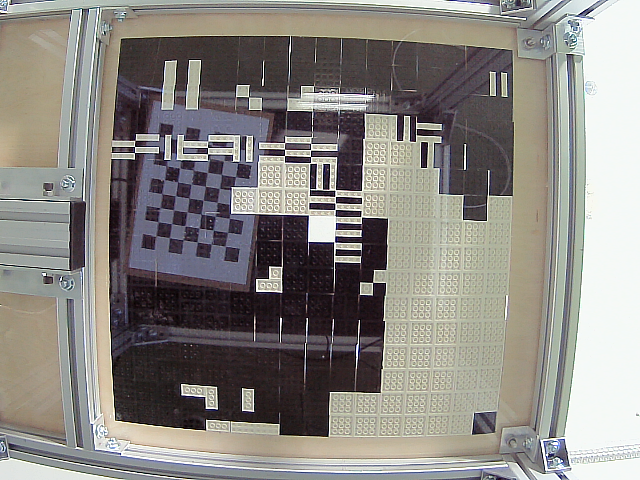
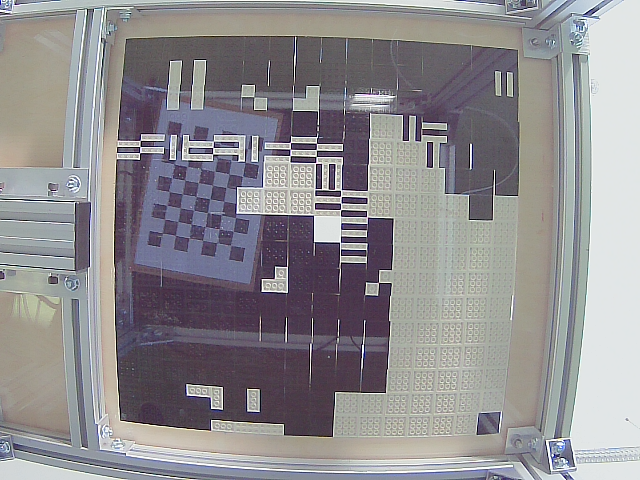
Fixed the calibration

diff --git a/image_calibration/Calibration_test_script.py b/image_calibration/Calibration_test_script.py
@@ -1,43 +1,46 @@
 import numpy as np
 import cv2 as cv
 import glob
-# termination criteria
-criteria = (cv.TERM_CRITERIA_EPS + cv.TERM_CRITERIA_MAX_ITER, 30, 0.001)
+# # termination criteria
+# criteria = (cv.TERM_CRITERIA_EPS + cv.TERM_CRITERIA_MAX_ITER, 30, 0.001)
 
-# prepare object points, like (0,0,0), (1,0,0), (2,0,0) ....,(6,5,0)
-objp = np.zeros((6*8,3), np.float32)
-objp[:,:2] = np.mgrid[0:6,0:8].T.reshape(-1,2)
+# # prepare object points, like (0,0,0), (1,0,0), (2,0,0) ....,(6,5,0)
+# objp = np.zeros((6*8,3), np.float32)
+# objp[:,:2] = np.mgrid[0:6,0:8].T.reshape(-1,2)
 
-# Arrays to store object points and image points from all the images.
-objpoints = [] # 3d point in real world space
-imgpoints = [] # 2d points in image plane.
+# # Arrays to store object points and image points from all the images.
+# objpoints = [] # 3d point in real world space
+# imgpoints = [] # 2d points in image plane.
 
-images = glob.glob('*.png')
+# images = glob.glob('*.png')
 
-for fname in images:
-    img = cv.imread(fname)
-    gray = cv.cvtColor(img, cv.COLOR_BGR2GRAY)
-    # Find the chess board corners
-    ret, corners = cv.findChessboardCornersSB(gray, (6,8), None)
-    # If found, add object points, image points (after refining them)
-    if ret == True:
-        objpoints.append(objp)
-        corners2 = cv.cornerSubPix(gray,corners, (11,11), (-1,-1), criteria)
-        imgpoints.append(corners2)
-        # Draw and display the corners
-        cv.drawChessboardCorners(img, (6,8), corners2, ret)
-        #cv.namedWindow('img', cv.WINDOW_NORMAL)
-        cv.imshow('img', img)
+# for fname in images:
+#     img = cv.imread(fname)
+#     gray = cv.cvtColor(img, cv.COLOR_BGR2GRAY)
+#     # Find the chess board corners
+#     ret, corners = cv.findChessboardCornersSB(gray, (6,8), None)
+#     # If found, add object points, image points (after refining them)
+#     if ret == True:
+#         objpoints.append(objp)
+#         corners2 = cv.cornerSubPix(gray,corners, (11,11), (-1,-1), criteria)
+#         imgpoints.append(corners2)
+#         # Draw and display the corners
+#         cv.drawChessboardCorners(img, (6,8), corners2, ret)
+#         #cv.namedWindow('img', cv.WINDOW_NORMAL)
+#         cv.imshow('img', img)
         
-        cv.waitKey(500)
-    else:
-        print(fname)
+#         cv.waitKey(500)
+#     else:
+#         print(fname)
         
-cv.destroyAllWindows()
+# cv.destroyAllWindows()
 
-ret, mtx, dist, rvecs, tvecs = cv.calibrateCamera(objpoints, imgpoints, gray.shape[::-1], None, None)
+# ret, mtx, dist, rvecs, tvecs = cv.calibrateCamera(objpoints, imgpoints, gray.shape[::-1], None, None)
 
-print("ret:\n", ret, "\n mtx:\n", mtx, "\n dist:\n",dist,"\n rvecs:\n", rvecs, "\n tvecs:\n",tvecs)
+# print("ret:\n", ret, "\n mtx:\n", mtx, "\n dist:\n",dist,"\n rvecs:\n", rvecs, "\n tvecs:\n",tvecs)
+
+mtx =  np.array([[613.88367983, 0, 319.21787006],[0, 614.31059499, 202.28879716],[0, 0, 1]])
+dist =  np.array([[-0.37703544,  0.31425025, -0.00366991, -0.00103216, -0.28197977]])
 
 # cap = cv.VideoCapture(1)  # 0 for the first webcam, 1 for the second one, etc.
 # ret, img = cap.read()  # read a new frame from video
@@ -48,54 +51,55 @@ print("ret:\n", ret, "\n mtx:\n", mtx, "\n dist:\n",dist,"\n rvecs:\n", rvecs, "
 # h,  w = img.shape[:2]
 # newcameramtx, roi = cv.getOptimalNewCameraMatrix(mtx, dist, (w,h), 1, (w,h))
 
-# import time
+import time
 
-# while True:
-#     cap = cv.VideoCapture(1)  # 0 for the first webcam, 1 for the second one, etc.
-#     ret, img = cap.read()  # read a new frame from video
-#     cap.release()  # after capturing the image, release the camera
+import cv2 as cv
+import numpy as np
 
-#     if ret:  # if frame read successfully
-#         cv.imwrite('output.png', img)  # save the image as a PNG file
-#     else:
-#         print("Unable to capture image")
-#     img = cv.imread('output.png')
-#     h,  w = img.shape[:2]
-#     newcameramtx, roi = cv.getOptimalNewCameraMatrix(mtx, dist, (w,h), 1, (w,h))
-#     # undistort
-#     dst = cv.undistort(img, mtx, dist, None, newcameramtx)
-#     # crop the image
-#     x, y, w, h = roi
-#     dst = dst[y:y+h, x:x+w]
-#     cv.imshow('calibresult', dst)
+# Assuming mtx and dist are defined somewhere else in the code
+# mtx is the camera matrix
+# dist is the distortion coefficients
 
-#     # undistort
-#     mapx, mapy = cv.initUndistortRectifyMap(mtx, dist, None, newcameramtx, (w,h), 5)
-#     dst = cv.remap(img, mapx, mapy, cv.INTER_LINEAR)
-#     # crop the image
-#     x, y, w, h = roi
-#     dst = dst[y:y+h, x:x+w]
-#     cv.imshow('calibresult', dst)
+cap = cv.VideoCapture(1)  # 0 for the first webcam, 1 for the second one, etc.
 
-#     if cv.waitKey(1) & 0xFF == ord('q'):  # press 'q' to quit
-#         break
+while True:
+    ret, img = cap.read()  # read a new frame from video
 
-#     time.sleep(1)  # wait for 1 second
+    if not ret:  # if frame read successfully
+        print("Unable to capture image")
+        break
 
-# cv.destroyAllWindows()
+    h,  w = img.shape[:2]
+    newcameramtx, roi = cv.getOptimalNewCameraMatrix(mtx, dist, (w,h), 1, (w,h))
+    print(newcameramtx)
+
+    # undistort
+    dst = cv.undistort(img, mtx, dist, None, newcameramtx)
+
+    # crop the image
+    x, y, w, h = roi
+    dst = dst[y:y+h, x:x+w]
+
+    cv.imshow('calibresult', dst)
+
+    if cv.waitKey(1) & 0xFF == ord('q'):  # press 'q' to quit
+        break
+
+cap.release()
+cv.destroyAllWindows()
 
 
-img = cv.imread('output.png')
-h,  w = img.shape[:2]
-print(w,h)
-newcameramtx, roi = cv.getOptimalNewCameraMatrix(mtx, dist, (w,h), 1, (w,h))
+# img = cv.imread('output.png')
+# h,  w = img.shape[:2]
+# print(w,h)
+# newcameramtx, roi = cv.getOptimalNewCameraMatrix(mtx, dist, (w,h), 1, (w,h))
 
-# undistort
-dst = cv.undistort(img, mtx, dist, None, newcameramtx)
-# crop the image
-x, y, w, h = roi
-dst = dst[y:y+h, x:x+w]
-cv.imwrite('calibresult2.png', dst)
+# # undistort
+# dst = cv.undistort(img, mtx, dist, None, newcameramtx)
+# # crop the image
+# x, y, w, h = roi
+# dst = dst[y:y+h, x:x+w]
+# cv.imwrite('calibresult2.png', dst)
 
 
 

diff --git a/CS_CityScoPy-3.2/cityscopy.py b/CS_CityScoPy-3.2/cityscopy.py
@@ -217,20 +217,17 @@ class Cityscopy:
             # else if camera capture is ok
             else:
                 h, w, *_ = this_frame.shape
-                res_matrix = np.array([[w, 0, 0], [0, h, 0], [0, 0, 1]])
-                matrix = [[613.88292291, 0, 319.217804],
-                          [0, 614.30988818, 202.28886733],
-                          [0, 0, 1]]
-                distortion = [[-0.37703198,  0.31423615, -0.00367001, -0.00103222, -0.28196277]]
-                # matrix = [[ 0.6834898667393322, 0.0, 0.4965583739104512 ], [ 0.0, 1.216452331944533, 0.5026849121434522 ], [ 0.0, 0.0, 1.0 ] ]
-                # distortion = [ -0.3714812399536999, 0.21247979505344064, -0.00020619953391510647, -0.0009202007819819389, -0.08640239614978638 ]
-                # distortion = [ -0.5714812399536999, 0.31247979505344064, -0.0020619953391510647, -0.009202007819819389, -0.8640239614978638 ]
+                #res_matrix = np.array([[w, 0, 0], [0, h, 0], [0, 0, 1]])
+                matrix =  np.array([[613.88367983, 0, 319.21787006],[0, 614.31059499, 202.28879716],[0, 0, 1]])
+                distortion =  np.array([[-0.37703544,  0.31425025, -0.00366991, -0.00103216, -0.28197977]])
 
-                rel_camera_matrix = np.array(matrix)
-                distortion_coefficients = np.array(distortion)
-        
-                abs_camera_matrix = np.matmul(res_matrix, rel_camera_matrix)
-                this_frame = cv2.undistort(this_frame,abs_camera_matrix, distortion_coefficients, None, None)
+                #rel_camera_matrix = np.array(matrix)
+                #distortion_coefficients = np.array(distortion)
+                        
+                #abs_camera_matrix = np.matmul(res_matrix, rel_camera_matrix)
+                newcameramtx, roi = cv2.getOptimalNewCameraMatrix(matrix, distortion, (w,h), 1, (w,h))
+                #this_frame = cv2.undistort(this_frame,rel_camera_matrix, distortion_coefficients, None, newcameramtx)
+                this_frame = cv2.undistort(this_frame, matrix, distortion, None, newcameramtx)
 
                 # mirror camera
                 if self.table_settings['mirror_cam'] is True:
@@ -809,19 +806,17 @@ class Cityscopy:
 
                 _, self.FRAME = WEBCAM.read()
                 h, w, *_ = self.FRAME.shape
-                res_matrix = np.array([[w, 0, 0], [0, h, 0], [0, 0, 1]])
-        
-                matrix = [[1.35849769 ,0.0, 9.69135846],[0.0 , 1.35852002, 4.04283924],[ 0.0, 0.0 ,1.0]]
-                distortion = [[-0.41040225,  0.47704181,  0.00128558, -0.00100666, -0.67813111]]
-                #matrix = [[ 0.6834898667393322, 0.0, 0.4965583739104512 ], [ 0.0, 1.216452331944533, 0.5026849121434522 ], [ 0.0, 0.0, 1.0 ] ]
-                #distortion = [ -0.3714812399536999, 0.21247979505344064, -0.00020619953391510647, -0.0009202007819819389, -0.08640239614978638 ]
-                #distortion = [ -0.5714812399536999, 0.31247979505344064, -0.0020619953391510647, -0.009202007819819389, -0.8640239614978638 ]
+                #res_matrix = np.array([[w, 0, 0], [0, h, 0], [0, 0, 1]])
+                matrix =  np.array([[613.88367983, 0, 319.21787006],[0, 614.31059499, 202.28879716],[0, 0, 1]])
+                distortion =  np.array([[-0.37703544,  0.31425025, -0.00366991, -0.00103216, -0.28197977]])
 
-                rel_camera_matrix = np.array(matrix)
-                distortion_coefficients = np.array(distortion)
-        
-                abs_camera_matrix = np.matmul(res_matrix, rel_camera_matrix)
-                self.FRAME = cv2.undistort(self.FRAME,abs_camera_matrix, distortion_coefficients, None, None)
+                #rel_camera_matrix = np.array(matrix)
+                #distortion_coefficients = np.array(distortion)
+                        
+                #abs_camera_matrix = np.matmul(res_matrix, rel_camera_matrix)
+                newcameramtx, roi = cv2.getOptimalNewCameraMatrix(matrix, distortion, (w,h), 1, (w,h))
+                #self.FRAME = cv2.undistort(self.FRAME,rel_camera_matrix, distortion_coefficients, None, newcameramtx)
+                self.FRAME = cv2.undistort(self.FRAME, matrix, distortion, None, newcameramtx)
 
 
 
